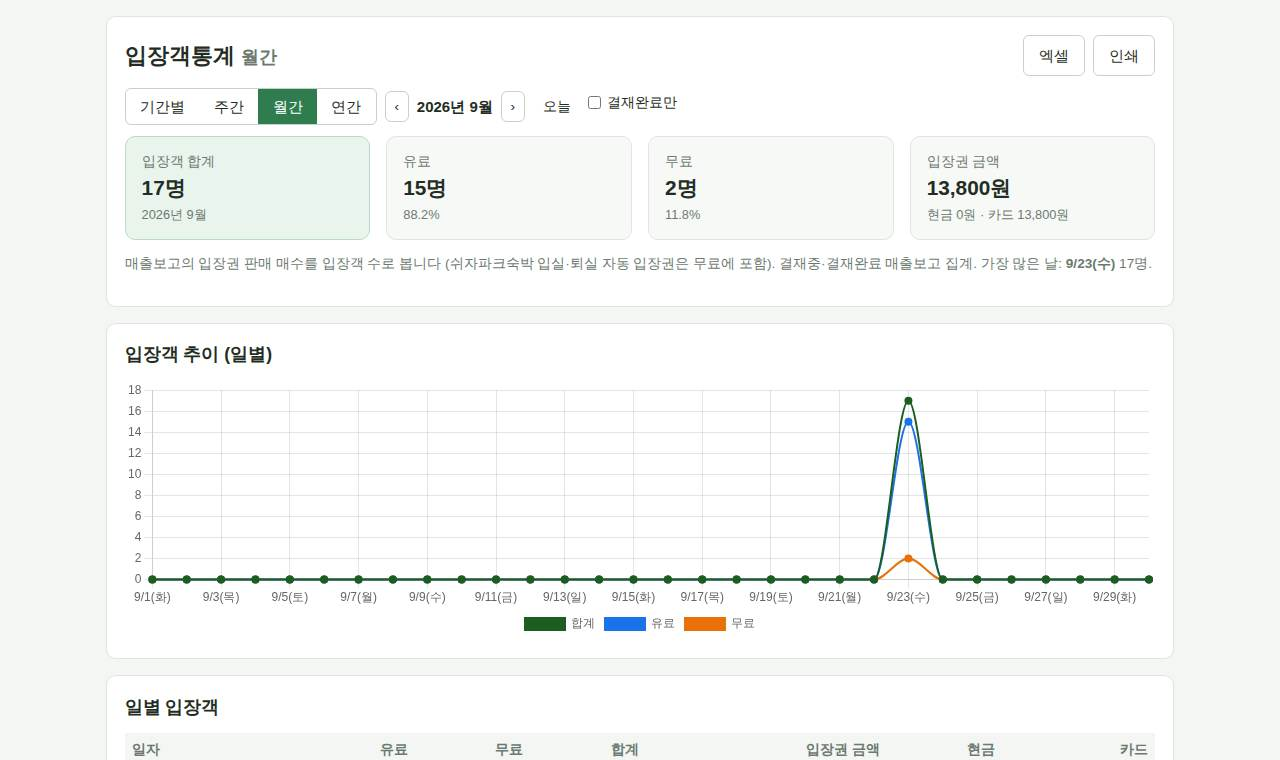
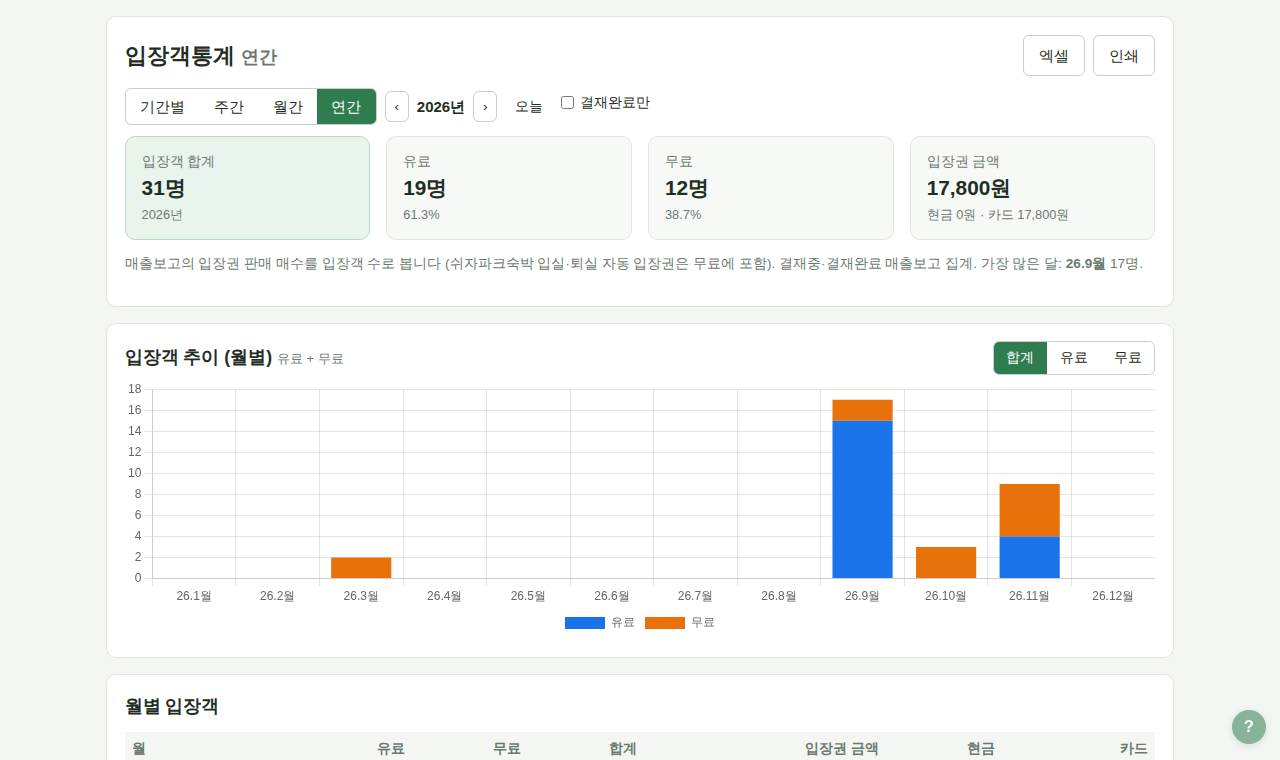
입장객통계 그래프: 꺾은선 → 유료·무료 누적 막대 + 합계·유료·무료 보기 버튼
Claude-Session: https://claude.ai/code/session_01Lr6yxKyasrSL9QLfMX5TX8

diff --git a/visitor_stats.php b/visitor_stats.php
@@ -4,7 +4,7 @@
  *   visitor_stats.php?unit=range&from=2026-09-01&to=2026-09-30
  *   visitor_stats.php?unit=week|month|year&date=2026-09-25     (그 날이 속한 주·달·해, 이전·다음 이동)
  *   + &approved=1 (결재완료만) &export=xlsx
- * 그래프: 유료·무료·합계 꺾은선 (주간·월간·3개월 이하 기간은 일별, 연간·긴 기간은 월별)
+ * 그래프: 유료·무료 누적 막대 + 합계·유료·무료 보기 버튼 (주간·월간·3개월 이하 기간은 일별, 연간·긴 기간은 월별)
  */
 require __DIR__ . '/app/bootstrap.php';
 require __DIR__ . '/app/xlsx.php';
@@ -148,11 +148,11 @@ layout_header('입장객통계', 'visit_stats');
     <?php if ($busiestKey): ?>가장 많은 <?= $gran === 'day' ? '날' : '달' ?>: <b><?= e($buckets[$busiestKey]) ?></b> <?= number_format($data[$busiestKey]['total']) ?>명.<?php endif ?></p>
 </section>
 
-<?php stat_chart('visitChart', '입장객 추이 (' . ($gran === 'day' ? '일별' : '월별') . ')', array_values($buckets), [
-    ['label' => '합계', 'data' => array_column($data, 'total'), 'color' => '#1b5e20', 'type' => 'line'],
-    ['label' => '유료', 'data' => array_column($data, 'paid'), 'color' => '#1a73e8', 'type' => 'line'],
-    ['label' => '무료', 'data' => array_column($data, 'free'), 'color' => '#e8710a', 'type' => 'line'],
-], '명') ?>
+<?php // 유료·무료를 한 기둥에 쌓고 (기둥 높이 = 합계), 합계·유료·무료 보기 버튼
+stat_chart('visitChart', '입장객 추이 (' . ($gran === 'day' ? '일별' : '월별') . ')', array_values($buckets), [
+    ['label' => '유료', 'data' => array_column($data, 'paid'), 'color' => '#1a73e8'],
+    ['label' => '무료', 'data' => array_column($data, 'free'), 'color' => '#e8710a'],
+], '명', '유료 + 무료', ['stacked' => true, 'views' => ['합계' => [0, 1], '유료' => [0], '무료' => [1]]]) ?>
 
 <section class="card">
   <h2><?= $gran === 'day' ? '일별' : '월별' ?> 입장객</h2>

diff --git a/app/changelog.php b/app/changelog.php
@@ -7,6 +7,9 @@ defined('APP_ROOT') || exit;
  *   ['date' => 'YYYY-MM-DD', 'title' => '한 줄 요약', 'items' => ['자세한 내용', ...], 'menu' => '관련 메뉴(선택)']
  */
 const CHANGELOG = [
+    ['date' => '2026-09-30', 'title' => '입장객통계 그래프를 누적 막대로', 'menu' => '통계', 'items' => [
+        '입장객 추이 그래프를 꺾은선에서 막대로 바꿨습니다. 기둥 하나에 유료·무료가 쌓여 기둥 높이가 합계이고, 합계·유료·무료 버튼으로 따로 볼 수 있습니다.',
+    ]],
     ['date' => '2026-09-30', 'title' => '통계 그래프: 객실 분류별 · 프로그램 분야별 · 민원 대분류별로 쌓기', 'menu' => '통계', 'items' => [
         '객실이용통계의 판매 객실 추이 그래프 기둥이 객실 분류(2인실·4인실·독채 등)별로 나뉘어 쌓이고, 합계·분류 버튼으로 따로 볼 수 있습니다.',
         '프로그램 통계의 참여 인원 추이는 분야(산림치유센터·유아숲·숲해설 등)별, 민원통계의 민원 건수 추이는 대분류(단순문의·요청·불편·불만·긴급·안전)별로 같은 방식입니다.',

diff --git a/app/help.php b/app/help.php
@@ -240,7 +240,8 @@ HTML],
             ['id' => 'visit_stats', 'title' => '입장객통계', 'keys' => ['visit_stats'], 'img' => ['visit_stats.jpg' => '입장객통계'], 'body' => <<<'HTML'
 <ul>
   <li>입장권 판매 매수를 입장객 수로 봅니다: 기간별·주간·월간·연간, ‹ › 로 이전·다음 기간.</li>
-  <li>유료·무료·합계 꺾은선 그래프, 일별(월별) 표, 입장권별·요일별 표, 엑셀·인쇄.</li>
+  <li><b>입장객 추이 그래프</b>: 기둥 하나에 유료·무료가 색으로 나뉘어 쌓입니다(기둥 높이 = 합계). 오른쪽 위 <b>합계 · 유료 · 무료</b> 버튼으로 따로 봅니다.</li>
+  <li> 일별(월별) 표, 입장권별·요일별 표, 엑셀·인쇄.</li>
 </ul>
 HTML],
             ['id' => 'room_stats', 'title' => '객실이용통계', 'keys' => ['room_stats'], 'img' => ['room_stats.jpg' => '객실이용통계'], 'body' => <<<'HTML'
